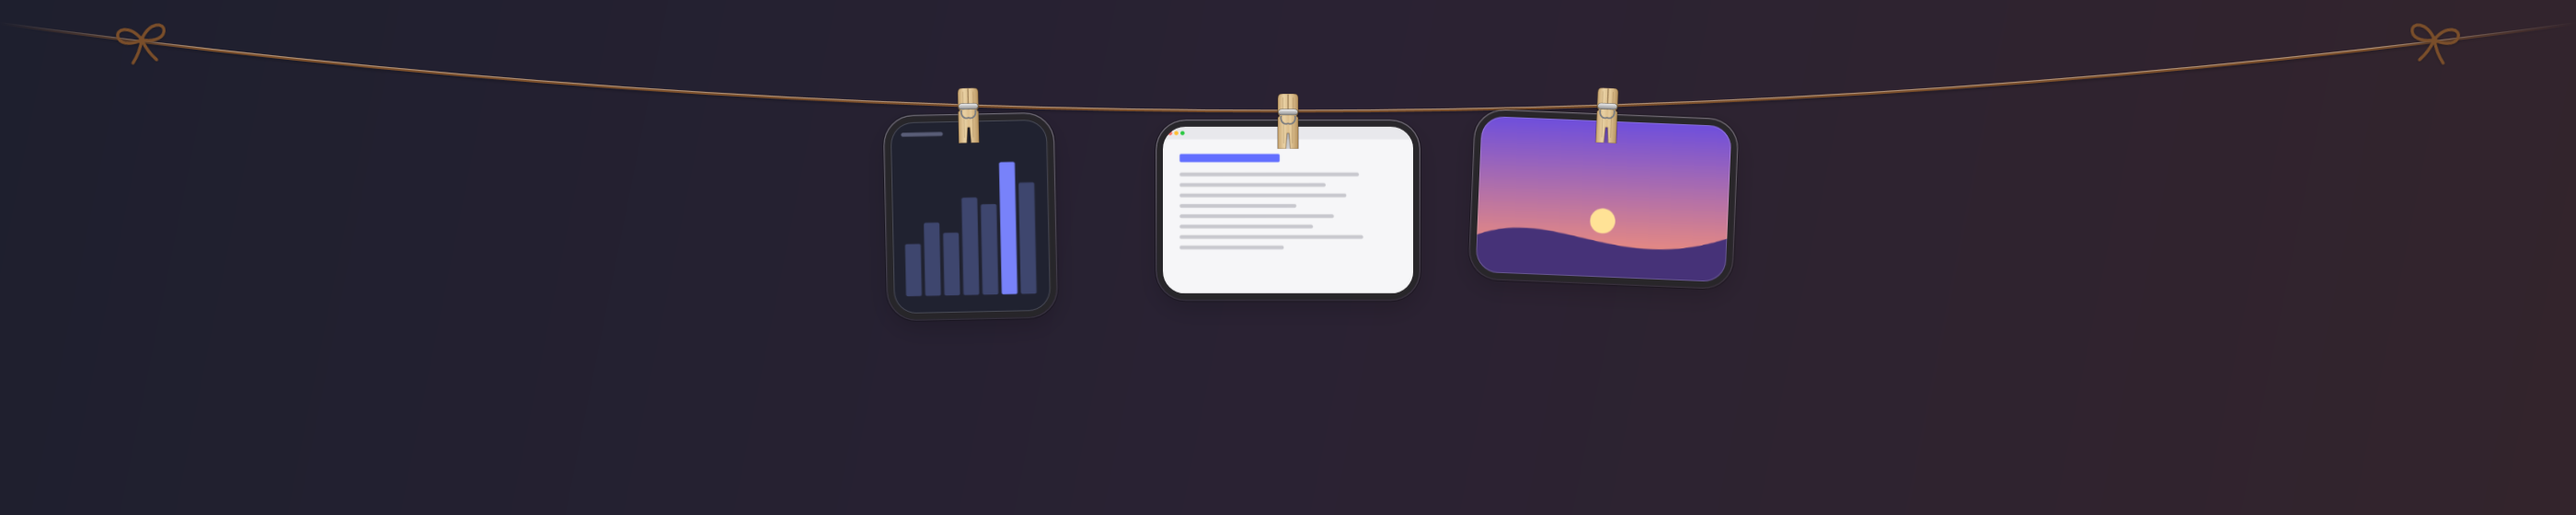
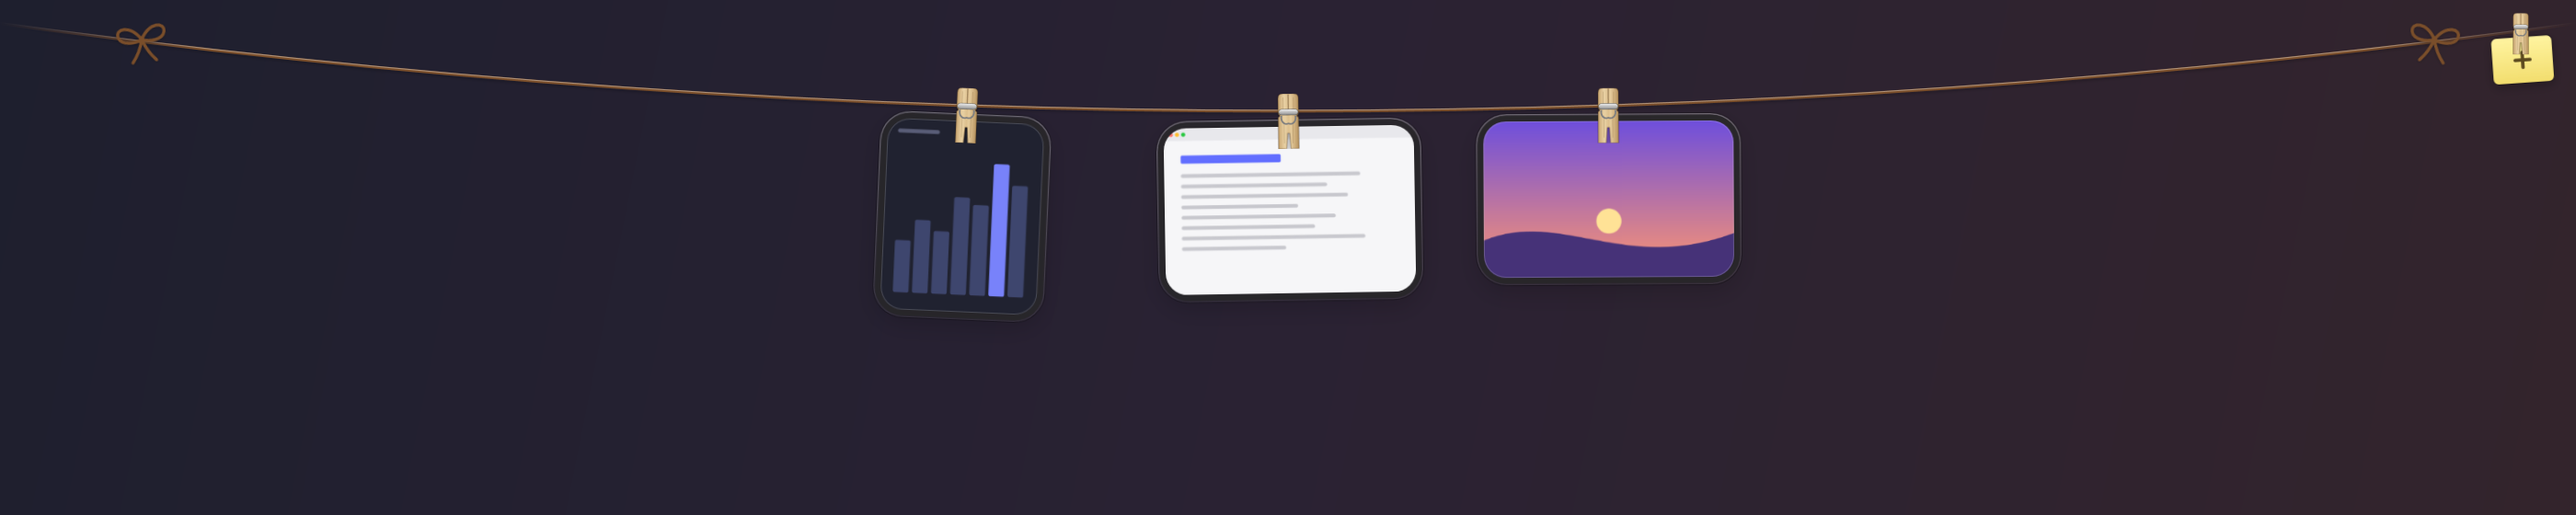
The menu on the line: a paper tag at the end, and a right click on the rope

diff --git a/src/Clothesline/UI/LineCanvas.cs b/src/Clothesline/UI/LineCanvas.cs
@@ -17,6 +17,7 @@ public sealed class LineCanvas : Canvas
     private readonly Grid _rope;
     private readonly Path _ropeShadow, _ropeCore, _ropeHighlight;
     private Path? _bowLeft, _bowRight;
+    private readonly Grid _tag;
     private PeggedControl? _held;
     private int _topZ = 10;
     private bool _ropeDrag;
@@ -94,6 +95,16 @@ public sealed class LineCanvas : Canvas
         Strings.LanguageChanged += Repaint;
         MouseLeftButtonDown += OnRopeDown;
         MouseLeftButtonUp += OnRopeUp;
+        MouseRightButtonUp += (_, e) =>
+        {
+            var p = e.GetPosition(this);
+            if (IsOverRope(p) || (TagRect is { } t && t.Contains(p))) { e.Handled = true; MenuRequested?.Invoke(); }
+        };
+
+        // A small paper tag always hangs at the end of the line: the menu, within reach.
+        _tag = BuildTag();
+        Children.Add(_tag);
+        SetZIndex(_tag, 2);
         LostMouseCapture += (_, _) => { if (_ropeDrag) { _ropeDrag = false; RopeDragEnded?.Invoke(); } };
         SizeChanged += (_, _) => Relayout(snap: true);
         Sync();
@@ -211,6 +222,9 @@ public sealed class LineCanvas : Canvas
         }
         double mid = _width / 2;
         _hint.Measure(new Size(double.PositiveInfinity, double.PositiveInfinity));
+        double tagX = _width - 30;
+        SetLeft(_tag, tagX - Layout.CardWidth / 2);
+        SetTop(_tag, Layout.RopeY(tagX, _width) - Layout.PinAbove * 0.75);
         SetLeft(_hint, mid - _hint.DesiredSize.Width / 2);
         SetTop(_hint, Layout.RopeY(mid, _width) + 34 - _hint.DesiredSize.Height / 2);
     }
@@ -313,6 +327,46 @@ public sealed class LineCanvas : Canvas
     }
 
     // MARK: Moving the line itself
+
+    /// <summary>The menu was asked for, from the tag or a right click on the rope.</summary>
+    public event Action? MenuRequested;
+
+    private const double TagWidth = 34, TagHeight = 26;
+
+    private Grid BuildTag()
+    {
+        var g = new Grid { Width = Layout.CardWidth, Cursor = System.Windows.Input.Cursors.Hand, ToolTip = Strings.Menu, Background = null };
+        var peg = Pegs.Create(seed: 1);
+        peg.LayoutTransform = new ScaleTransform(0.75, 0.75);
+        peg.HorizontalAlignment = HorizontalAlignment.Center;
+        peg.VerticalAlignment = VerticalAlignment.Top;
+        peg.Margin = new Thickness(0, 0, 0, 0);
+        var paper = new Border
+        {
+            Width = TagWidth, Height = TagHeight, CornerRadius = new CornerRadius(3),
+            Background = new LinearGradientBrush(Color.FromRgb(0xFF, 0xF4, 0xA0), Color.FromRgb(0xF2, 0xDD, 0x6E), 90),
+            BorderBrush = new SolidColorBrush(Color.FromArgb(0x40, 0, 0, 0)), BorderThickness = new Thickness(0.6),
+            HorizontalAlignment = HorizontalAlignment.Center, VerticalAlignment = VerticalAlignment.Top,
+            Margin = new Thickness(0, Layout.PinHeight * 0.75 - 7, 0, 0),
+            Effect = new DropShadowEffect { BlurRadius = 8, ShadowDepth = 2, Direction = 270, Opacity = 0.25, Color = Colors.Black },
+            RenderTransformOrigin = new Point(0.5, 0), RenderTransform = new RotateTransform(-4),
+            Child = new Path
+            {
+                Data = Geometry.Parse("M0,5 H10 M5,0 V10"), Stroke = new SolidColorBrush(Color.FromRgb(0x5A, 0x48, 0x1E)), StrokeThickness = 1.8,
+                StrokeStartLineCap = PenLineCap.Round, StrokeEndLineCap = PenLineCap.Round, Width = 10, Height = 10, Stretch = Stretch.Uniform,
+            },
+        };
+        g.Children.Add(paper);
+        g.Children.Add(peg);
+        g.MouseLeftButtonUp += (_, e) => { e.Handled = true; MenuRequested?.Invoke(); };
+        g.MouseRightButtonUp += (_, e) => { e.Handled = true; MenuRequested?.Invoke(); };
+        return g;
+    }
+
+    /// <summary>Where the tag hangs, for hit testing.</summary>
+    public Rect? TagRect => _width > 0 && _tag.Opacity > 0
+        ? new Rect(GetLeft(_tag) + (Layout.CardWidth - TagWidth) / 2 - 4, GetTop(_tag), TagWidth + 8, Layout.PinHeight * 0.75 + TagHeight + 2)
+        : null;
 
     public event Action? RopeDragStarted;
     public event Action? RopeDragEnded;

diff --git a/src/Clothesline/UI/Strings.cs b/src/Clothesline/UI/Strings.cs
@@ -72,6 +72,7 @@ public static class Strings
     public static string TextTool => L("Text");
     public static string Blur => L("Blur");
     public static string NewNote => L("New note");
+    public static string Menu => L("Menu");
     public static string EditNote => L("Edit note");
     public static string NoteColour => L("Note colour");
     public static string NotePlaceholder => L("Write a note2026");
@@ -184,6 +185,7 @@ public static class Strings
         ["Text"] = "نص",
         ["Blur"] = "تمويه",
         ["New note"] = "ملاحظة جديدة",
+        ["Menu"] = "القائمة",
         ["Edit note"] = "تحرير الملاحظة",
         ["Note colour"] = "لون الملاحظة",
         ["Write a note…"] = "اكتب ملاحظة…",

diff --git a/src/Clothesline/AppController.cs b/src/Clothesline/AppController.cs
@@ -68,6 +68,12 @@ public sealed class AppController : IDisposable
 
         _tray = new TrayIcon(_messages) { MenuProvider = BuildMenu };
         _tray.LeftClick += Toggle;
+        _panel.Canvas.MenuRequested += () =>
+        {
+            var menu = BuildMenu();
+            menu.Placement = System.Windows.Controls.Primitives.PlacementMode.MousePoint;
+            menu.IsOpen = true;
+        };
 
         _clipboard = new ClipboardWatcher(_messages, OnClipboardCapture, RecentlyHungFromFile)
         {

diff --git a/src/Clothesline/UI/LineWindow.cs b/src/Clothesline/UI/LineWindow.cs
@@ -115,6 +115,7 @@ public sealed class LineWindow : Window
         foreach (var (_, rect) in Canvas.HitRects())
             if (rect.Contains(p.Value)) return true;
         if (Canvas.HintRect is { } hint && hint.Contains(p.Value)) return true;
+        if (Canvas.TagRect is { } tag && tag.Contains(p.Value)) return true;
         return Canvas.RopeDragging || Canvas.IsOverRope(p.Value);
     }
 

diff --git a/README.md b/README.md
@@ -35,7 +35,8 @@ they land, sway in an occasional breeze, and fall off the screen when you let th
 |:--|:--|
 | Click | Copy the image. Paste it anywhere, as a picture or as a file. |
 | Press and hold, or click the pen in its corner | Mark it up: the photo opens enlarged with a ballpoint pen, a highlighter, circle, box, arrow and text tools, a blur for hiding names and numbers, six colours and three thicknesses. Every mark saves into the file as you go, with undo and redo, and *Revert to original* if you change your mind. *Edit in Paint* is in the right-click menu for anything more. |
-| *New note* in the tray menu | A sticky note hangs on the line, in yellow, pink, blue, green or orange. Write on it, and it swings, copies and drags out like any photo. Double click it to write again. |
+| Click the little yellow tag at the end of the line, or right-click the line | The same menu as the tray icon: new capture, new note, settings. |
+| *New note* in the menu | A sticky note hangs on the line, in yellow, pink, blue, green or orange. Write on it, and it swings, copies and drags out like any photo. Double click it to write again. |
 | Double click | Open it in Photos. |
 | Drag along the line | Put the photo where you want it. It stays there. With *Arrange photos evenly* on, the others make room instead. |
 | Drag the line itself | Move the whole line up or down the screen, below your tabs if you like. |
